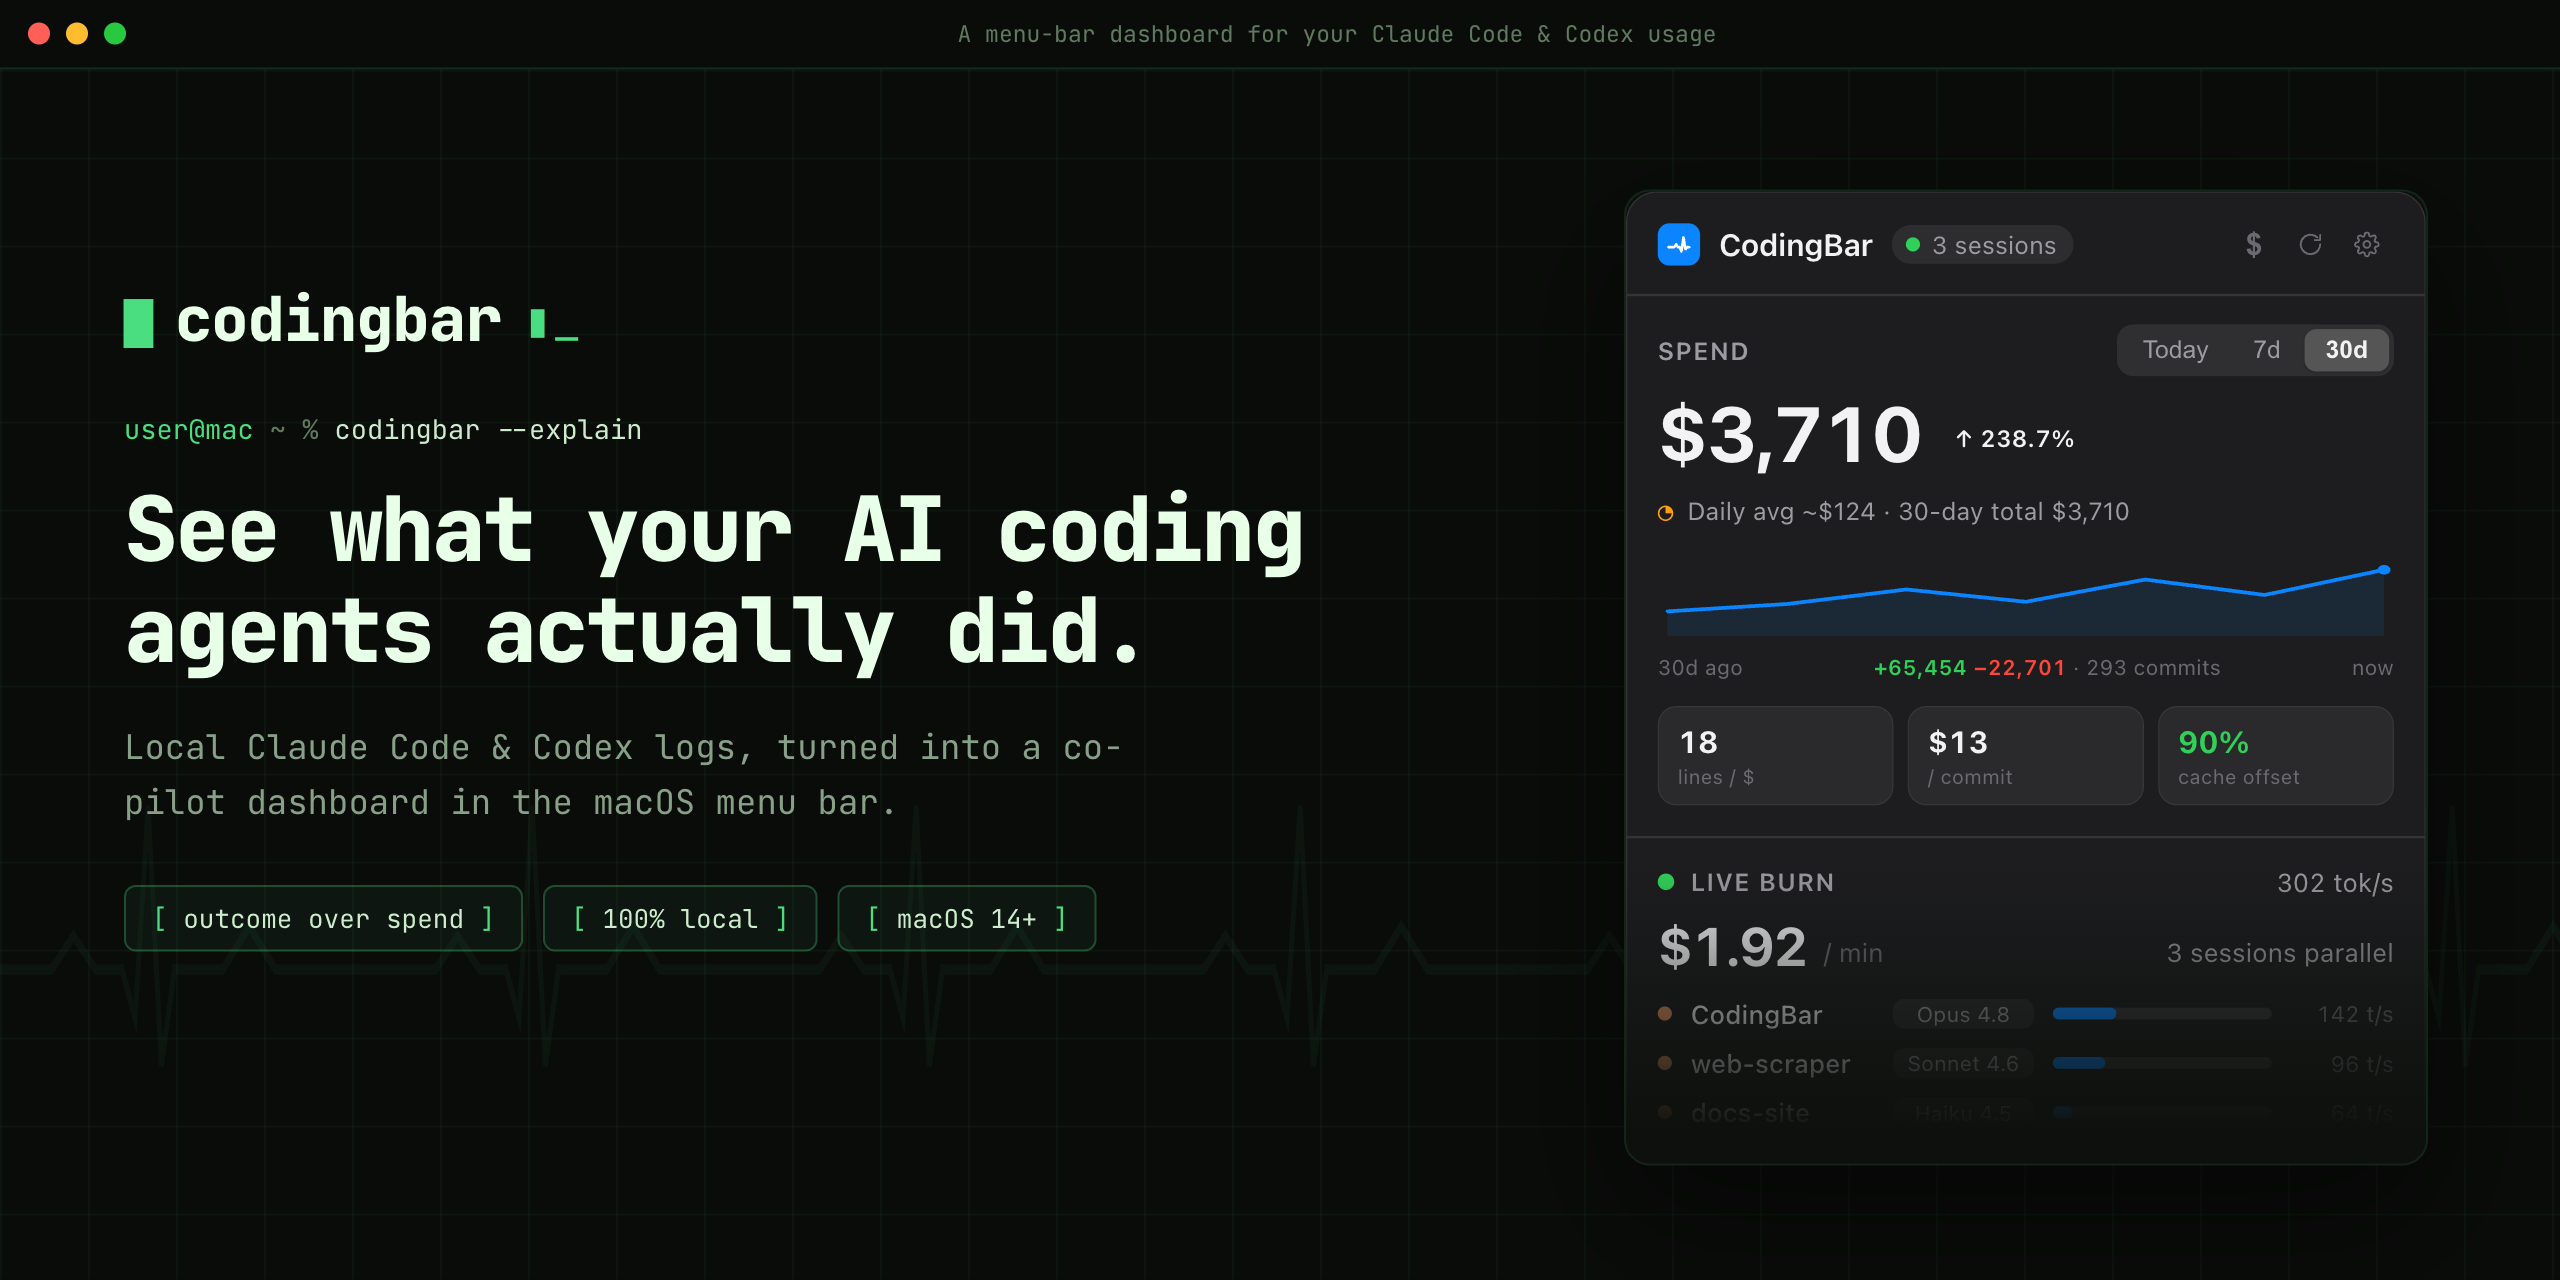
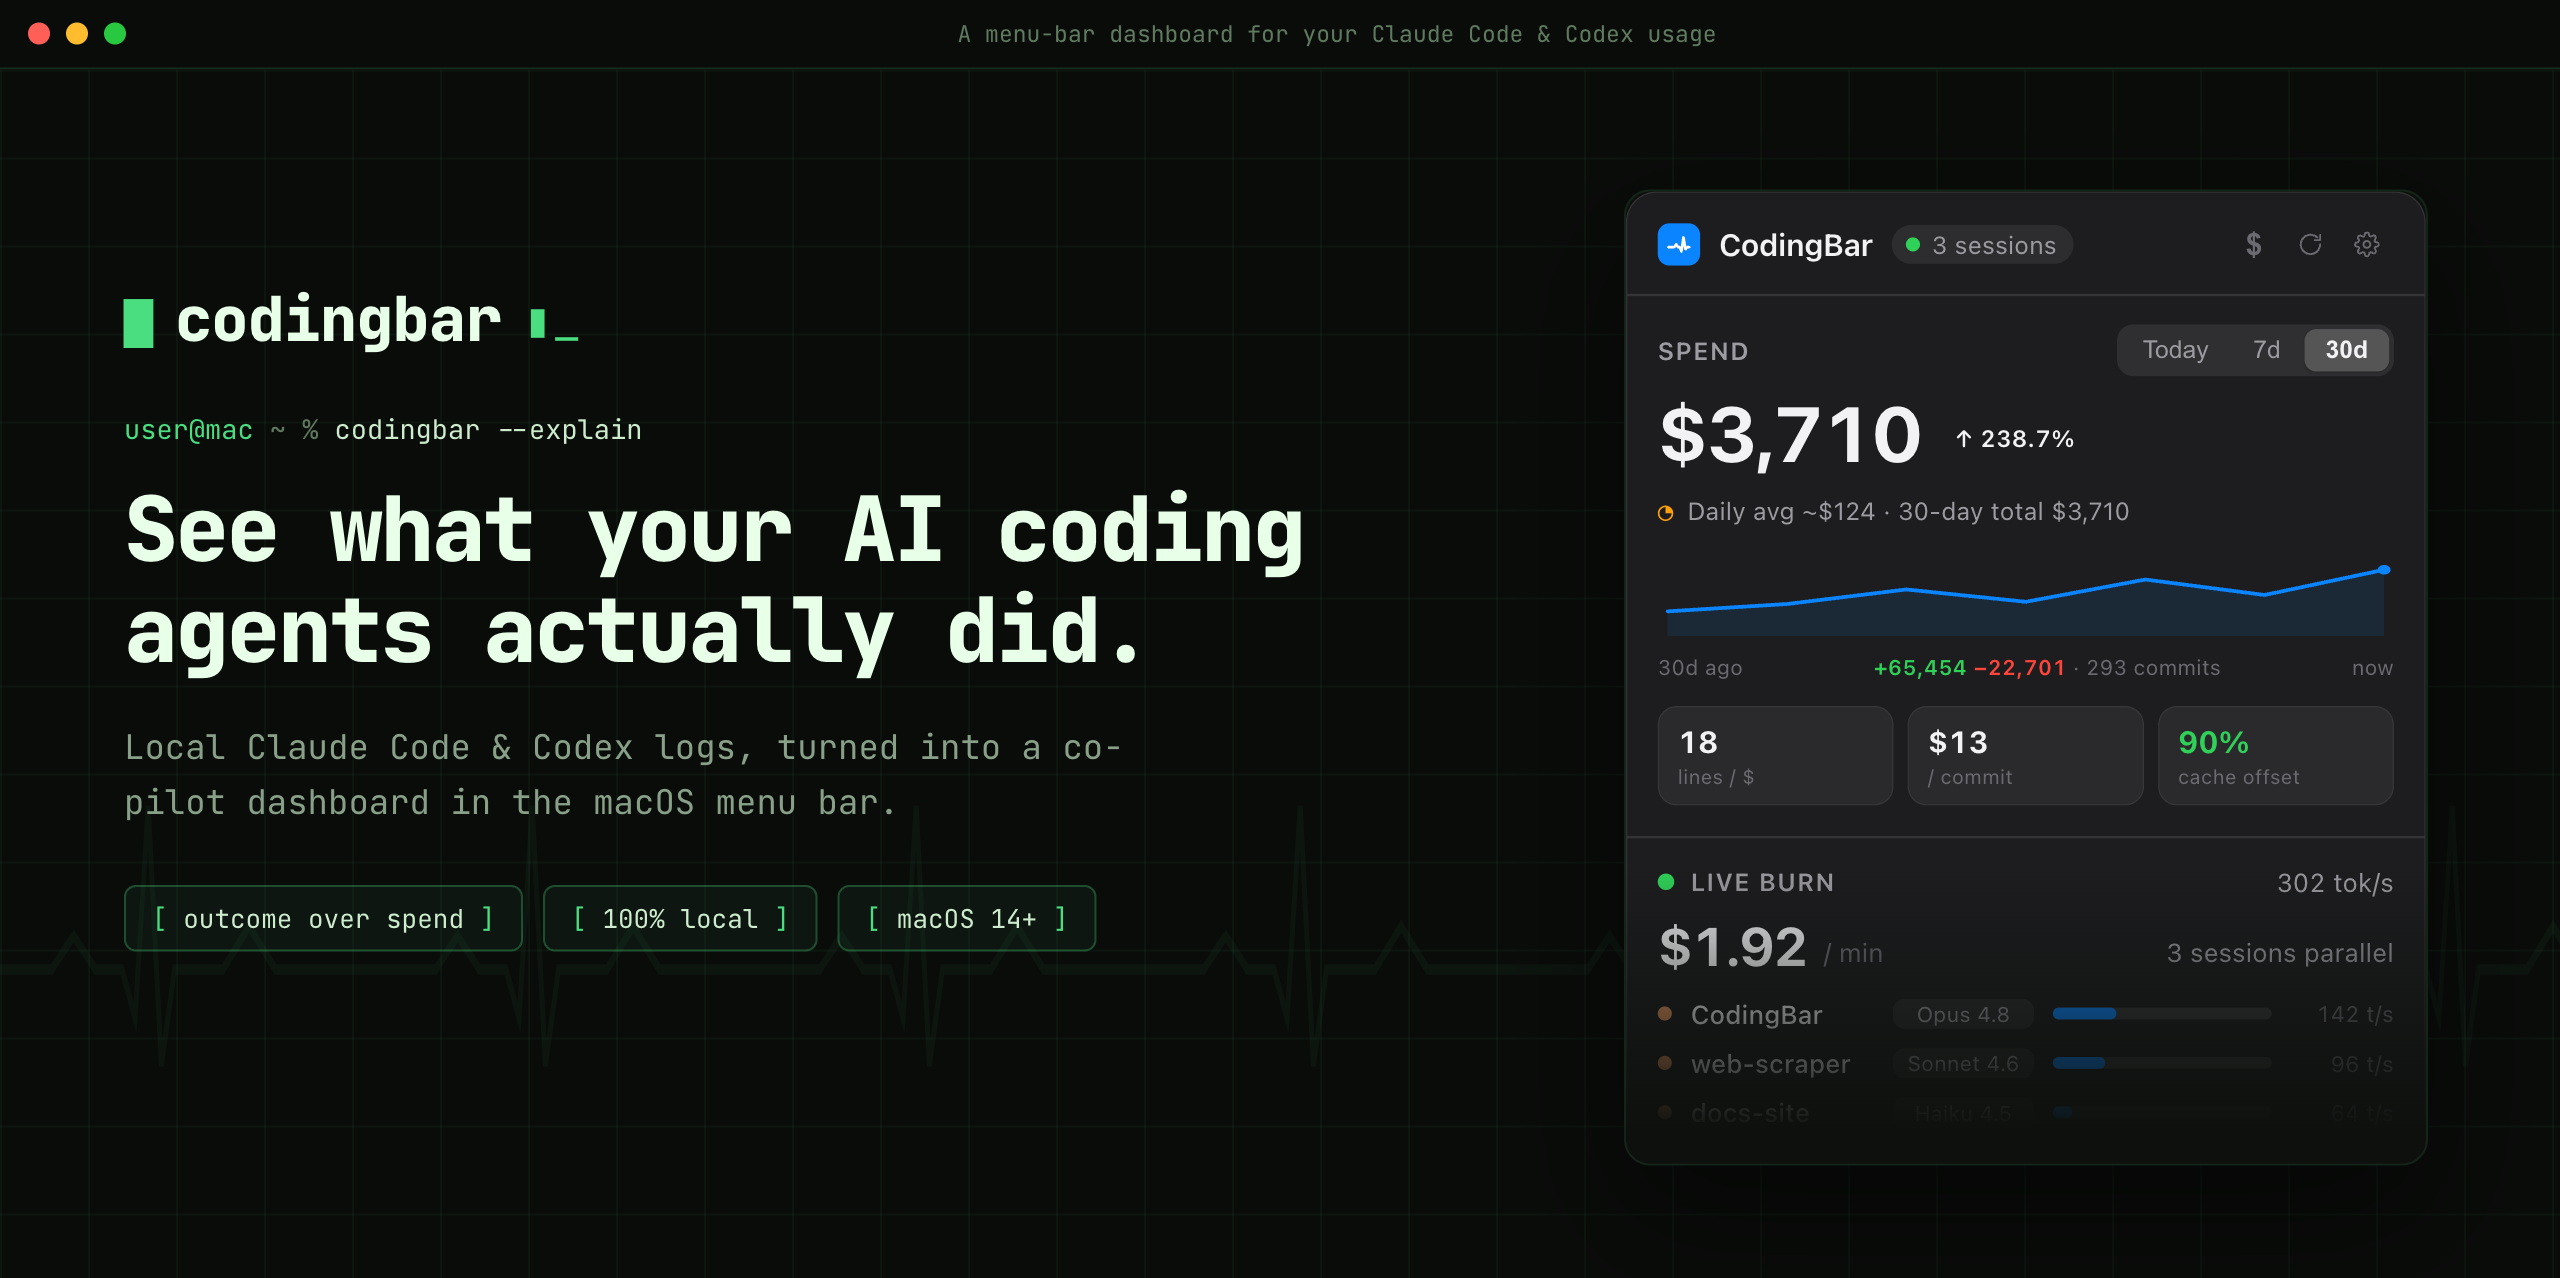
Update README.md

diff --git a/README.md b/README.md
@@ -15,16 +15,6 @@
   <img src="docs/assets/social.png" width="840" alt="CodingBar — a menu-bar dashboard for your Claude Code & Codex usage" />
 </p>
 
-<p align="center">
-  <img src="docs/assets/menubar.png" width="760" alt="CodingBar menu bar — quota states" />
-</p>
-
-<p align="center">
-  <img src="docs/assets/panel-overview.png" width="320" alt="CodingBar panel — Overview" />
-</p>
-
-<p align="center"><sub><em>Screenshots rendered from sample data via <code>--render-panel</code>.</em></sub></p>
-
 <details>
 <summary><strong>More views — Composition · Insights · Light mode</strong></summary>
 <br/>
@@ -115,18 +105,6 @@ Pure SwiftPM, two targets, data layer fully decoupled from UI:
 - **`CodingBar`** — the AppKit `NSStatusItem` + SwiftUI app: `UsageStore` (`@MainActor ObservableObject`), `RefreshLoop`, `StatusItemController`, `MenuBarItemView`, and the three-tab panel.
 
 Because the layers are decoupled, `swift run CodingBar --dump-json` verifies data against real logs with no GUI, and `--render-menubar` / `--render-panel` rasterize the UI to PNG offscreen. See [`CLAUDE.md`](CLAUDE.md) for the full map.
-
-## Roadmap
-
-v1 ships everything above. Up next:
-
-- Wire the range switcher through (Overview is "today"; model / project / cache are "all-time", labeled as such).
-- A proper app icon (the menu bar currently uses a placeholder pulse glyph).
-- Auto-update (Sparkle) and notarized builds.
-
-## Contributing
-
-Issues and PRs welcome. Please read [`CLAUDE.md`](CLAUDE.md) first — it covers the architecture, the frozen `Models.swift` contract, comment philosophy, and credential / privacy landmines. CI keeps `swift build` and `swift test` green on every push.
 
 ## License
 